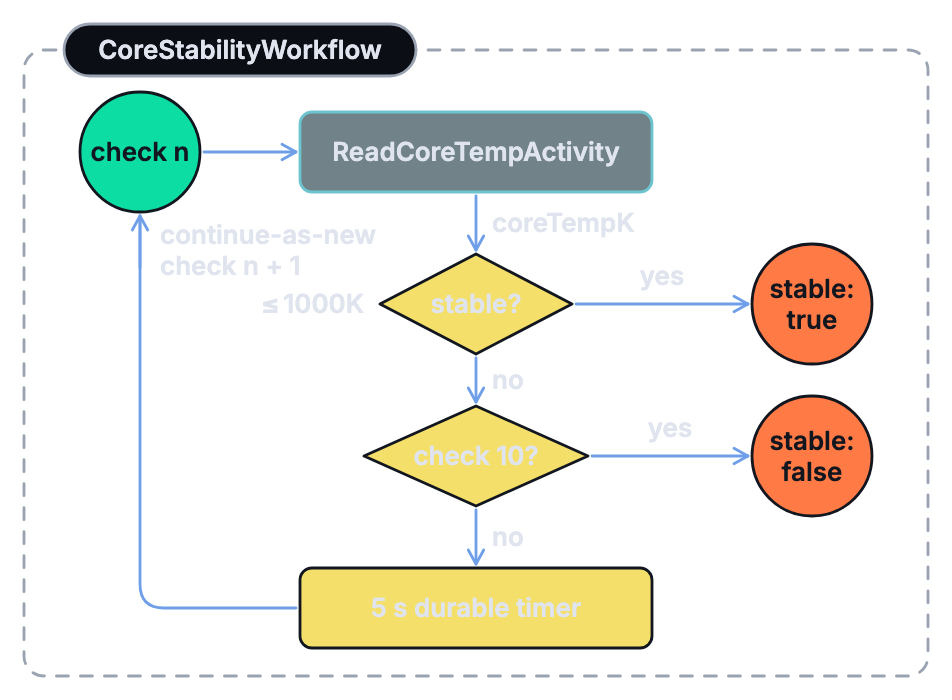
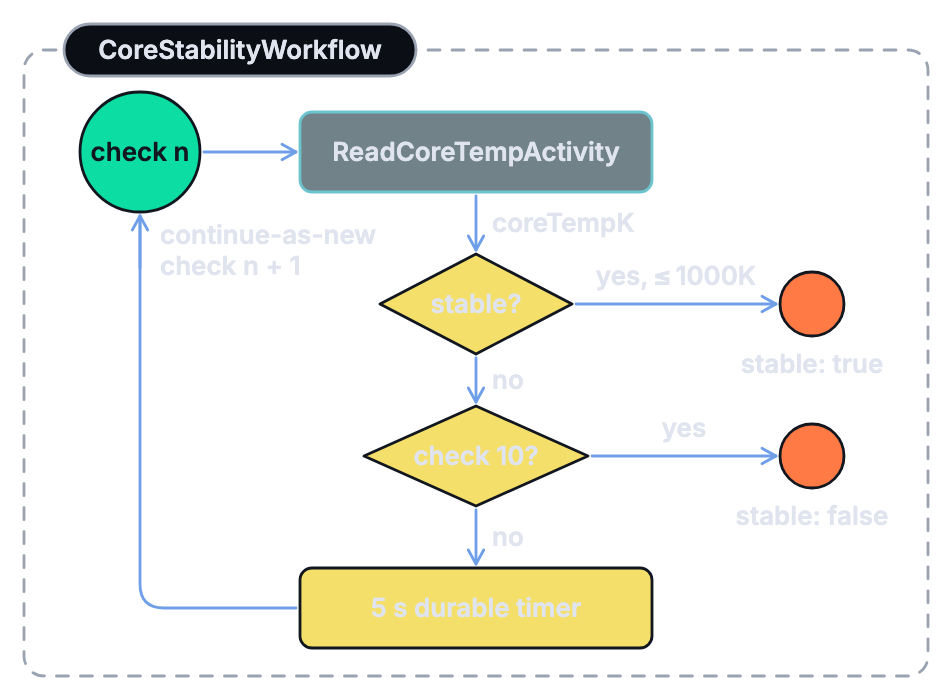
Final review fixes: setup note, workflow box style, page 4 exits and condition label, preview import

Changed region(s): [[0.6092, 0.33, 0.9443, 0.75], [0.2742, 0.42, 0.396, 0.45], [0.6702, 0.6, 0.7616, 0.63]]

diff --git a/AGENTS.md b/AGENTS.md
@@ -46,6 +46,7 @@ each scene to its page and image file). Never edit `diagrams/_engine/`. Export w
 into the page `images/` folders with `node diagrams/copy-to-labs.mjs`, preview a scene on the assignment
 background with `node diagrams/preview.mjs <name>`, and test with `node --test "diagrams/*.test.mjs"`
 (quote the glob; Node 24 treats a bare `diagrams/` as a module path). `out/` and `bbox.json` are committed.
+On a fresh clone, run `npm ci` in `diagrams/`, then `npx playwright install chromium` (from `diagrams/`), before exporting or previewing.
 Column constraints: canvas width 440 to 500 units, width / height at least 1.33, labels 13 units
 (`TEXT = 13`) or larger, at most three shapes in a row, short labels. The assignment uses
 `<name>-dark.png` only (transparent, 2x), shown on `#16181d` in a 424 px column. Image URLs use the
